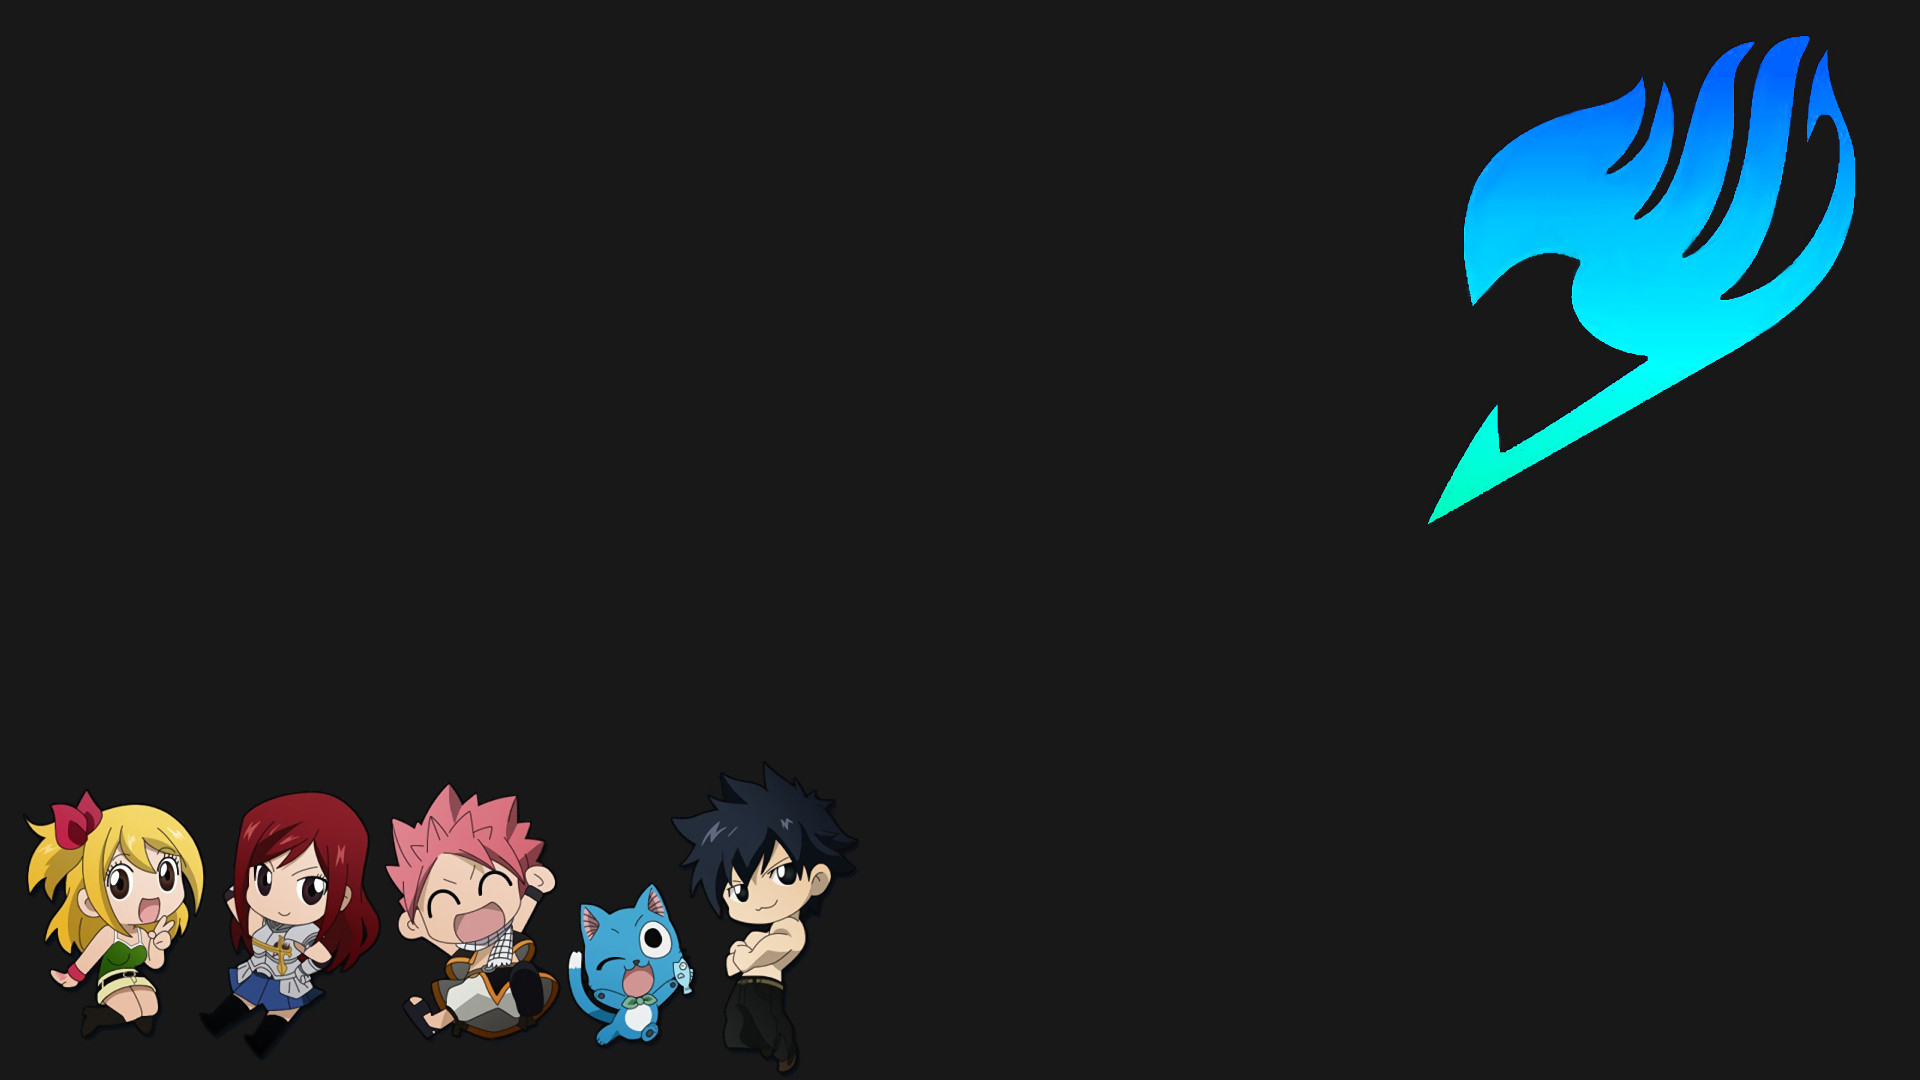
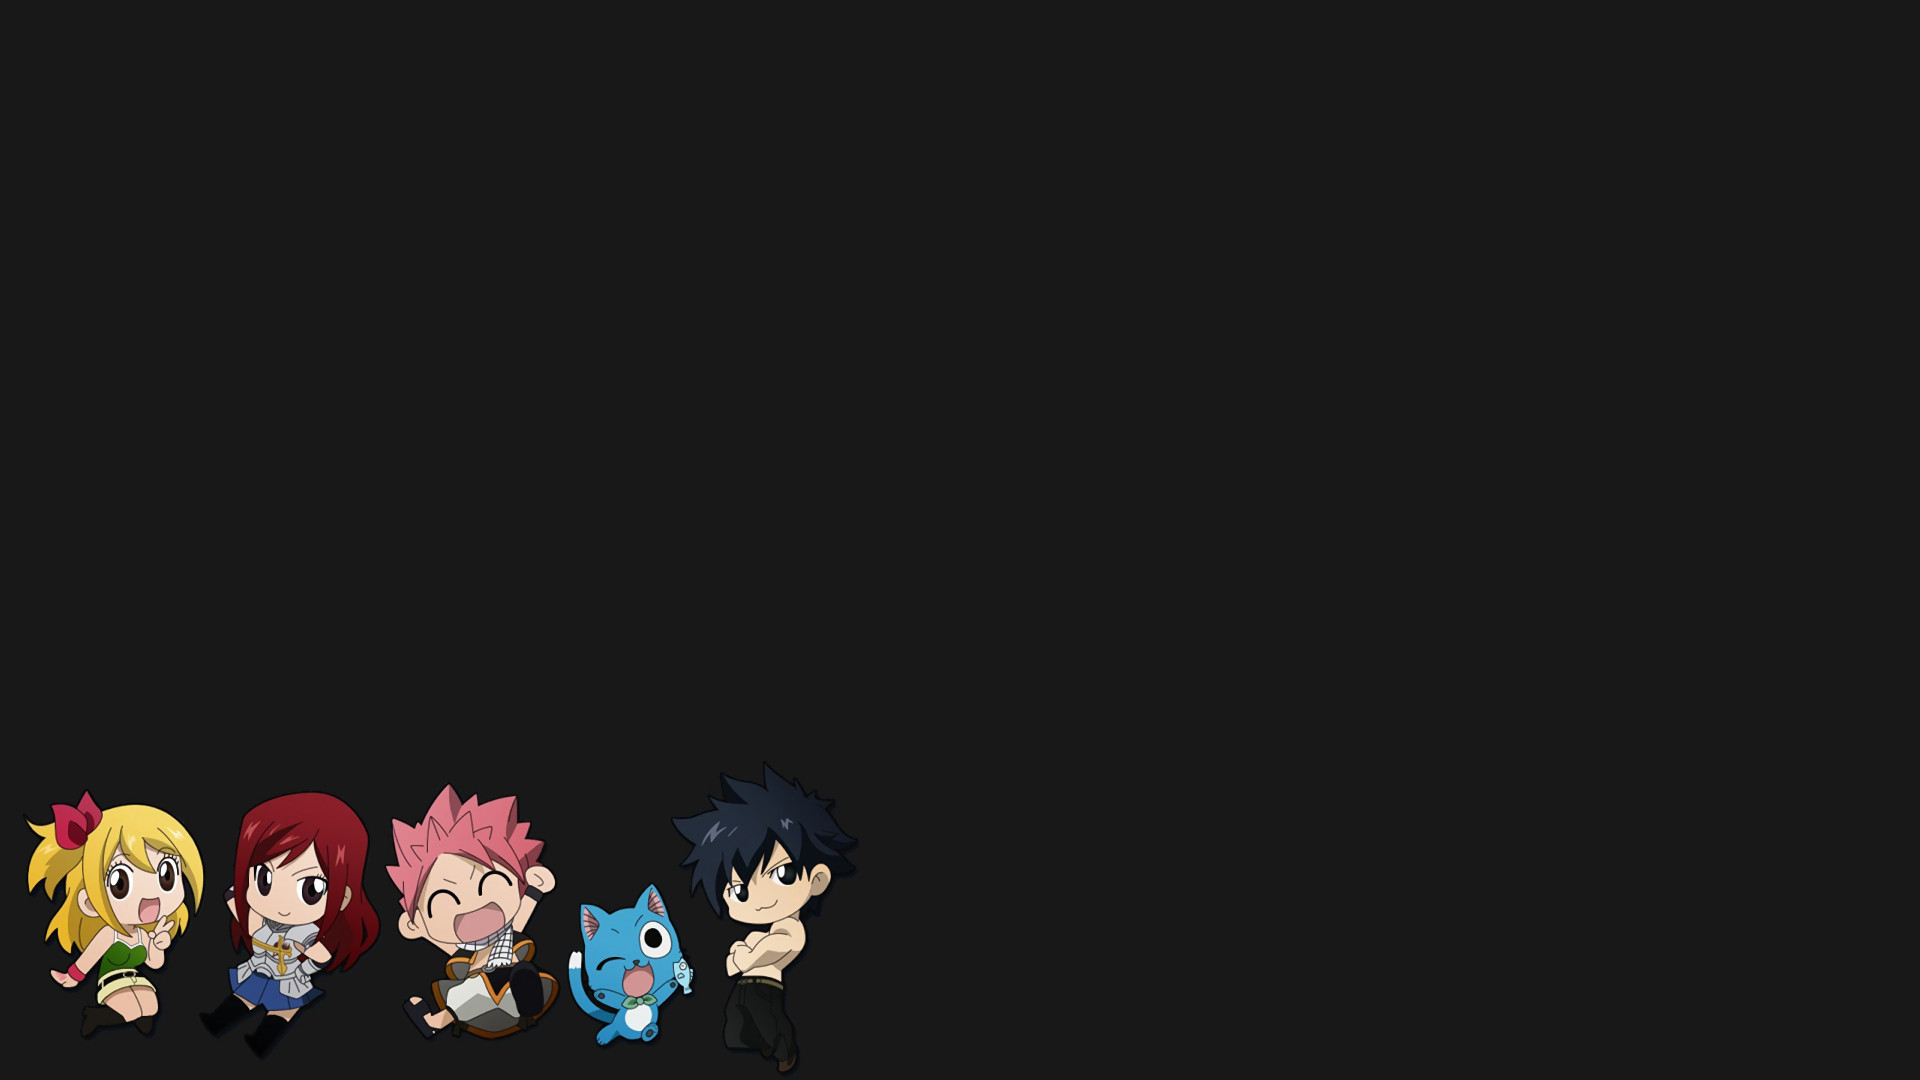
did an overflow: hidden in css to hide the sidebars.  Also added an image to Erza's page.  Not sure why since I can't get the right answer yet!

Changed region(s): [[0.75, 0.0306, 0.9688, 0.4889]]

diff --git a/assets/javascript/app.js b/assets/javascript/app.js
@@ -17,7 +17,8 @@ var losses = 0
 
 // run this every time a new question is asked
 function newQuestion() {
-    
+    // clear the previous result
+    $("#result").empty();
     // countdown timer
     
     var remaining = "Time Remaining: "
@@ -33,6 +34,9 @@ function newQuestion() {
             clearInterval(counting);
         }
     }
+
+    //  putting the question on the page
+
     $("#question").append(triviaBank.array[j].question);
     for 
     (var i =0; i < triviaBank.array[j].bank.length; i++)
@@ -53,7 +57,7 @@ var triviaBank = {
     {question: "Who is the strongest female wizard in Fairy Tail?",
     correct: "Erza",
     bank: ["Lucy", "Erza", "Wendy", "Cana"],
-    image: "../images/erza.png"},
+    image: "assets/images/erza.png"},
 
     {question: "What is the name of the Fairy Tail wizard from Edolas?",
     correct: "Mystogan",
@@ -61,6 +65,8 @@ var triviaBank = {
 ]
 }
 
+
+// Correct answer
 $(".option").click(hurray)
 
 function hurray(){
@@ -75,11 +81,8 @@ function hurray(){
     j++;
 }
 
-// do(
-//     $(bank).click(correct)
-// )
 
-// while (timer > 0)
+// Incorrect Answer
 
 function wrong() {
     $("#question").empty();
@@ -88,10 +91,17 @@ function wrong() {
     $("#result").append(`
     <div>Better luck next time!</div>
     <div>The actual answer was: ${triviaBank.array[j].correct}</div>
-    <img src = ${triviaBank.array[j].image}`);
+    <img src = ${triviaBank.array[j].image}>`);
     losses++;
     j++;
     setTimeout(newQuestion,5000)
     
 }
-console.log(triviaBank.array[0].correct)
+// console.log(triviaBank.array[0].correct)
+
+// Code I don't know if I'm going to use
+// do(
+//     $(bank).click(correct)
+// )
+
+// while (timer > 0)

diff --git a/assets/css/style.css b/assets/css/style.css
@@ -8,6 +8,7 @@ body {
   font-family: 'Times New Roman', Times, serif;
   font-size: 1.75em;
   color: #028f8d;
+  overflow: hidden;
 }
 
 /* Styling the Answers */
@@ -16,9 +17,12 @@ ul {
 }
 
 /* scaling background image */
-body{
-  /* background-image: url("../images/ftbackground2.jpg") */
-  background: #181818;
+#background {
+  width: 100%;
+  height: 100%;
+  position: absolute;
+  top: 0;
+  left: 0;
 }
 
 
@@ -46,8 +50,11 @@ button:hover {
 }
 
 #result{
-  margin-top: 5em;
+  /* margin-top: 10%; */
 }
 
+.option {
+  width: 25%
+}
 
 

diff --git a/index.html b/index.html
@@ -17,9 +17,9 @@
 </head>
 
 <body>
-    <!-- <div>
+    <div>
         <img src="assets/images/ftbackground2.jpg" id="background">
-    </div> -->
+    </div>
 
 
     <div class="container" id="title">
@@ -63,7 +63,7 @@
         </div>
 
         <div class="row">
-            <div class="col-md-8 offset-md-2" id="answers">
+            <div class="col-md-12" id="answers">
                 <!-- Answers in UL form -->
 
             </div>
